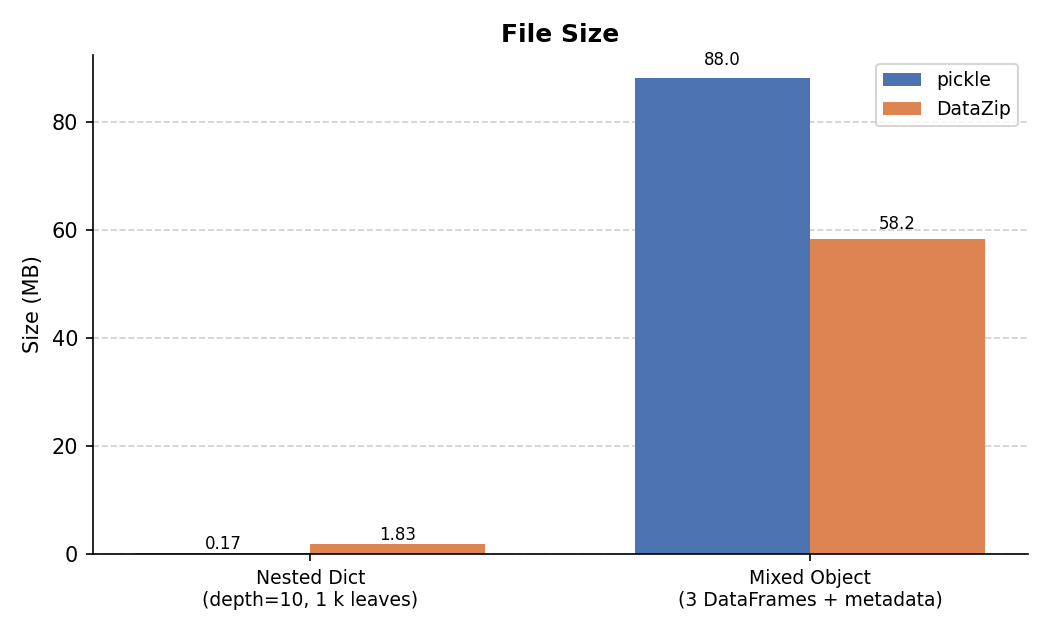
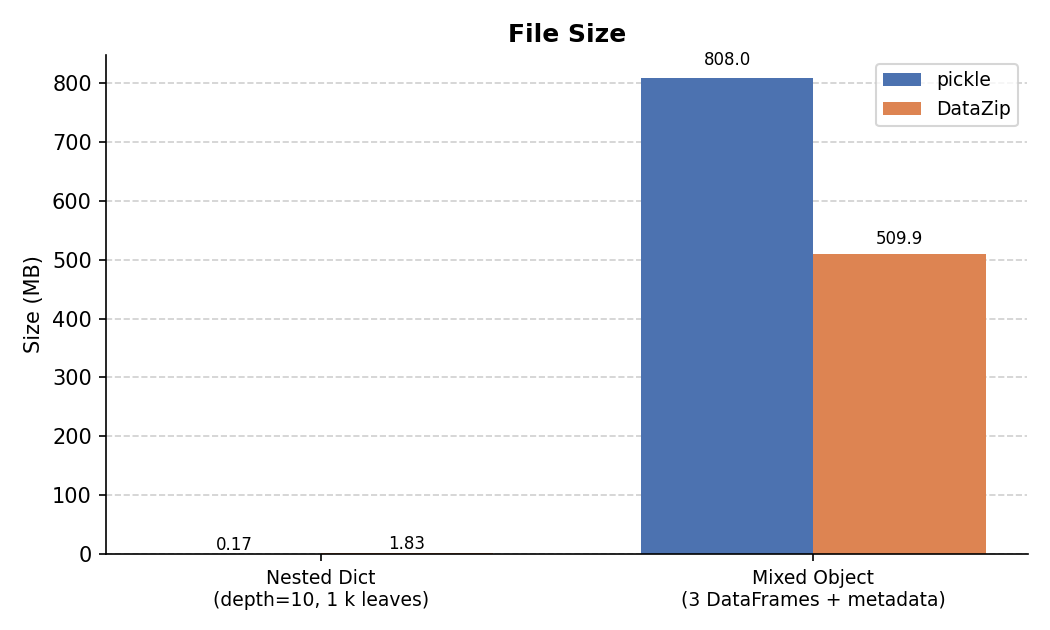
lazy access benchmark

diff --git a/docs/benchmarks.py b/docs/benchmarks.py
@@ -29,7 +29,7 @@ REPEATS = 7
 # ---------------------------------------------------------------------------
 
 
-def make_nested_dict(depth: int = 10, breadth: int = 2) -> dict:
+def make_nested_dict(depth: int, breadth: int) -> dict:
     """Return a recursively nested dict *depth* levels deep.
 
     With breadth=2 this creates 2**10 = 1,024 leaf nodes.
@@ -48,7 +48,7 @@ def make_mixed_object() -> dict:
     """Return a dict that mimics a realistic analysis result object.
 
     Contains:
-    - one large DataFrame  (500k rows × 20 cols)
+    - one large DataFrame  (5M rows × 20 cols)
     - two medium DataFrames (50k rows × 10 cols each)
     - a nested config dict
     - a list of category labels
@@ -63,7 +63,7 @@ def make_mixed_object() -> dict:
         return pd.DataFrame(d)
 
     return {
-        "results": _df(500_000, 20),
+        "results": _df(5_000_000, 20),
         "train_metrics": _df(50_000, 10),
         "val_metrics": _df(50_000, 10),
         "config": {
@@ -75,7 +75,7 @@ def make_mixed_object() -> dict:
             },
             "cv_folds": 5,
         },
-        "category_labels": [f"class_{i}" for i in range(200)],
+        "category_labels": [f"class_{i}" for i in range(20)],
         "description": (
             "Gradient boosting model trained on synthetic data. "
             "Metrics recorded at each epoch for train and validation splits."
@@ -108,7 +108,35 @@ def bench_pickle(obj, repeats: int = REPEATS) -> dict[str, float]:
     write_s = _time(lambda: pickle.dump(obj, io.BytesIO()), repeats)
     read_s = _time(lambda: pickle.loads(data), repeats)
 
-    return {"write_s": write_s, "read_s": read_s, "size_mb": size_mb}
+    return {"write_s": write_s * 1e3, "read_s": read_s * 1e3, "size_mb": size_mb}
+
+
+def bench_partial_read(obj: dict, key: str, repeats: int = REPEATS) -> dict[str, float]:
+    """Benchmark reading a single key: pickle must deserialize everything; DataZip does not.
+
+    With pickle, accessing any one key requires deserializing the entire blob —
+    including every large DataFrame stored in it.  With DataZip, only the
+    requested entry is deserialized; the binary files (Parquet, npy, …) for all
+    other entries are never read.
+    """  # noqa: E501, W505
+    buf = io.BytesIO()
+    pickle.dump(obj, buf)
+    pkl_data = buf.getvalue()
+
+    dz_buf = io.BytesIO()
+    with DataZip(dz_buf, "w") as z:
+        for k, v in obj.items():
+            z[k] = v
+    dz_data = dz_buf.getvalue()
+
+    pkl_s = _time(lambda: pickle.loads(pkl_data)[key], repeats)
+
+    def _dz_read():
+        with DataZip(io.BytesIO(dz_data), "r") as z:
+            _ = z[key]
+
+    dz_s = _time(_dz_read, repeats)
+    return {"pickle_s": pkl_s * 1e3, "datazip_s": dz_s * 1e3}
 
 
 def bench_datazip_dict(obj: dict, repeats: int = REPEATS) -> dict[str, float]:
@@ -125,19 +153,15 @@ def bench_datazip_dict(obj: dict, repeats: int = REPEATS) -> dict[str, float]:
     data = buf.getvalue()
 
     def _write():
-        with DataZip(io.BytesIO(), "w") as z:
-            for k, v in obj.items():
-                z[k] = v
+        DataZip.dump(obj, io.BytesIO())
 
     def _read():
-        with DataZip(io.BytesIO(data), "r") as z:
-            for k in z.keys():  # noqa: SIM118
-                _ = z[k]
+        _ = DataZip.load(io.BytesIO(data))
 
     write_s = _time(_write, repeats)
     read_s = _time(_read, repeats)
 
-    return {"write_s": write_s, "read_s": read_s, "size_mb": size_mb}
+    return {"write_s": write_s * 1e3, "read_s": read_s * 1e3, "size_mb": size_mb}
 
 
 # ---------------------------------------------------------------------------
@@ -192,13 +216,45 @@ def _bar_chart(
     ax.spines[["top", "right"]].set_visible(False)
 
 
+def make_partial_figure(result: dict[str, float], key: str) -> None:
+    """Save a two-bar chart for the single-item read benchmark."""
+    IMAGES_DIR.mkdir(parents=True, exist_ok=True)
+    fig, ax = plt.subplots(figsize=(5, 3.8))
+    labels = ["pickle\n(full deserialize)", "DataZip\n(lazy, 1 entry)"]
+    vals = [result["pickle_s"], result["datazip_s"]]
+    colors = [_PALETTE["pickle"], _PALETTE["DataZip"]]
+    bars = ax.bar(labels, vals, color=colors, width=0.45)
+    for bar in bars:
+        h = bar.get_height()
+        ax.text(
+            bar.get_x() + bar.get_width() / 2,
+            h * 1.02,
+            f"{h:.3f} ms",
+            ha="center",
+            va="bottom",
+            fontsize=9,
+        )
+    ax.set_ylabel("Time (ms)")
+    ax.set_title(
+        f"Single-item read (key='{key}')\npickle vs DataZip", fontweight="bold"
+    )
+    ax.yaxis.grid(True, linestyle="--", alpha=0.6)  # noqa: FBT003
+    ax.set_axisbelow(True)
+    ax.spines[["top", "right"]].set_visible(False)
+    fig.tight_layout()
+    path = IMAGES_DIR / "bench_partial_read.png"
+    fig.savefig(path, dpi=150)
+    plt.close(fig)
+    print(f"  Saved {path}")
+
+
 def make_figures(results: dict[str, dict[str, dict[str, float]]]) -> None:
     IMAGES_DIR.mkdir(parents=True, exist_ok=True)
 
     display_labels = list(results.keys())
     metrics = [
-        ("write_s", "Time (s)", "Write Time"),
-        ("read_s", "Time (s)", "Read Time"),
+        ("write_s", "Time (ms)", "Write Time"),
+        ("read_s", "Time (ms)", "Read Time"),
         ("size_mb", "Size (MB)", "File Size"),
     ]
     filenames = ["bench_write.png", "bench_read.png", "bench_size.png"]
@@ -221,8 +277,10 @@ def make_figures(results: dict[str, dict[str, dict[str, float]]]) -> None:
 
 
 def main() -> None:
-    print("\n── Nested Dict (depth=10, 1 k leaves) ──")
-    nested = make_nested_dict()
+    depth = 10
+    breadth = 2
+    print(f"\n── Nested Dict (depth={depth}, {breadth**10} leaves) ──")
+    nested = make_nested_dict(depth, breadth)
 
     print("  pickle  ...", end=" ", flush=True)
     nested_pkl = bench_pickle(nested)
@@ -259,6 +317,20 @@ def main() -> None:
         f"size={r['size_mb']:.2f} MB"
     )
 
+    TARGET_KEY = "config"  # noqa: N806
+    print(f"\n── Single-item read (key='{TARGET_KEY}' from mixed object) ──")
+    print(
+        f"  pickle must deserialize the entire blob (all DataFrames included).\n"
+        f"  DataZip only decodes the '{TARGET_KEY}' entry; other files are never read."
+    )
+    partial = bench_partial_read(mixed, TARGET_KEY)
+    speedup = partial["pickle_s"] / partial["datazip_s"]
+    print(
+        f"  pickle={partial['pickle_s']:.0f}ms  "
+        f"DataZip={partial['datazip_s'] * 1e3:.0f}us  "
+        f"speedup={speedup:.1f}×"  # noqa: RUF001
+    )
+
     results = {
         "Nested Dict\n(depth=10, 1 k leaves)": {
             "pickle": nested_pkl,
@@ -272,6 +344,7 @@ def main() -> None:
 
     print("\nGenerating figures ...")
     make_figures(results)
+    make_partial_figure(partial, TARGET_KEY)
 
     print("\n### Markdown results table\n")
     hdr = (
@@ -286,8 +359,8 @@ def main() -> None:
         p, d = r["pickle"], r["datazip"]
         print(
             f"| {name} "
-            f"| {p['write_s']:.3f} s | {d['write_s']:.3f} s "
-            f"| {p['read_s']:.3f} s | {d['read_s']:.3f} s "
+            f"| {p['write_s']:.1f} ms | {d['write_s']:.1f} ms "
+            f"| {p['read_s']:.1f} ms | {d['read_s']:.1f} ms "
             f"| {p['size_mb']:.2f} MB | {d['size_mb']:.2f} MB |"
         )
 

diff --git a/docs/performance.md b/docs/performance.md
@@ -76,27 +76,64 @@ This is where the trade-off becomes clear:
 
 ---
 
+## Partial / Lazy Read
+
+A key advantage of DataZip's zip-based format is that **entries are independent**.
+When you read a single key, only that entry is deserialized — the binary files
+(Parquet, NumPy, …) stored for every other key are never opened.
+
+`pickle` has no such capability: deserializing *any* part of a pickle blob
+requires parsing the entire stream from the beginning.
+
+The benchmark below reads one small key (`config`, a nested dict) from the
+mixed object that also contains a 5 M-row DataFrame and two 50 k-row
+DataFrames:
+
+```python
+# pickle — must deserialize all three DataFrames just to reach 'config'
+obj = pickle.loads(data)
+result = obj["config"]
+
+# DataZip — reads only the 'config' JSON entry; Parquet files are never touched
+with DataZip(io.BytesIO(data), "r") as z:
+    result = z["config"]
+```
+
+![Partial read comparison](images/bench_partial_read.png)
+
+DataZip is substantially faster here because the total work is proportional to
+the size of the requested entry, not the size of the whole archive.
+
+---
+
 ## Summary Table
 
 Measurements from a single representative run:
 
 | Benchmark | Write: pickle | Write: DataZip | Read: pickle | Read: DataZip | Size: pickle | Size: DataZip |
 |---|---|---|---|---|---|---|
-| Nested Dict (depth=10, 1 k leaves) | 0.000 s | 0.005 s | 0.001 s | 0.004 s | 0.17 MB | 1.83 MB |
-| Mixed Object (3 DataFrames + metadata) | 0.006 s | 0.152 s | 0.003 s | 0.021 s | 88.00 MB | 58.19 MB |
+| Nested Dict (depth=10, 1 k leaves) | 0.5 ms | 5.4 ms | 0.6 ms | 3.9 ms | 0.17 MB | 1.83 MB |
+| Mixed Object (3 DataFrames + metadata) | 70.0 ms | 969.3 ms | 52.4 ms | 159.8 ms | 808.00 MB | 509.86 MB |
+
+**Single-item read** — reading only `config` from the mixed object:
+
+| | pickle (full deserialize) | DataZip (lazy, 1 entry) |
+|---|---------------------------|-------------------------|
+| Mixed Object → `config` key | 54 ms                     | 26 us |
 
 ---
 
 ## When to use DataZip vs pickle
 
-| | DataZip | pickle |
-|---|---|---|
-| Human-inspectable archive | ✓ | ✗ |
-| Smaller file for DataFrames | ✓ | ✗ |
-| Parquet interoperability | ✓ | ✗ |
-| Faster for nested dicts | ✗ | ✓ |
+|                                        | DataZip | pickle |
+|----------------------------------------|---|---|
+| Human-inspectable archive              | ✓ | ✗ |
+| Smaller file for DataFrames            | ✓ | ✗ |
+| Parquet interoperability               | ✓ | ✗ |
+| Faster for nested dicts                | ✗ | ✓ |
+| Faster for partial reads               | ✓ | ✗ |
 | Safer (no arbitrary code exec on load) | ✓ | ✗ |
-| Reproducible across Python versions | ✓ (mostly) | ✗ |
+| Reproducible across Python versions    | ✓ (mostly) | ✗ |
 
 !!! tip "Reducing DataZip file size for nested structures"
     Pass `compression=ZIP_DEFLATED` to enable zip compression:

diff --git a/docs/installation.md b/docs/installation.md
@@ -2,7 +2,7 @@
 
 ## Requirements
 
-- Python ≥ 3.13
+- Python ≥ 3.12
 
 ## Basic Installation
 
@@ -22,25 +22,18 @@ These are installed automatically:
 
 | Package | Purpose |
 |---|---|
-| `pandas` | DataFrame and Series serialization |
-| `polars` | Polars DataFrame/Series serialization |
-| `pyarrow` | Parquet file format for tabular data |
-| `numpy` | Array serialization |
 | `orjson` | Fast JSON encoding/decoding |
-| `pyyaml` | YAML support |
-| `platformdirs` | Platform-specific directory paths |
 
 ## Optional Dependencies
 
 Some types require additional packages:
 
-```bash
-# Plotly figure support
-pip install plotly
+| Package       | Purpose                                   |
+|---------------|-------------------------------------------|
+| `pandas` and `pyarrow` | Pandas DataFrame and Series serialization |
+| `polars`      | Polars DataFrame/Series serialization     |
+| `numpy`       | Array serialization                       |
 
-# SQLAlchemy engine support
-pip install sqlalchemy
-```
 
 ## Development Installation
 

diff --git a/README.md b/README.md
@@ -9,13 +9,14 @@
 
 
 
-**DataZip** is a Python library that extends [`zipfile.ZipFile`](https://docs.python.org/3/library/zipfile.html#zipfile.ZipFile) to provide seamless serialization and deserialization of complex Python objects — a more flexible and readable alternative to pickle for data science workflows.
+**DataZip** is a Python library that extends [`zipfile.ZipFile`](https://docs.python.org/3/library/zipfile.html#zipfile.ZipFile) to provide seamless serialization and deserialization of complex Python objects — a more portable and readable alternative to pickle for data science workflows.
 
 ## Why DataZip?
 
 - **Human-inspectable archives**: DataZip files are standard `.zip` files. You can open them with any archive tool and inspect the contents.
 - **Broad type support**: Works out of the box with pandas DataFrames/Series, NumPy arrays, Polars DataFrames, datetimes, paths, sets, frozensets, complex numbers, and custom classes.
 - **Efficient storage**: Tabular data is stored as Parquet; arrays as `.npy`. JSON is used for metadata and simple types.
+- **Lazy loading**: Objects and data are only deserialized when they are accessed, allowing efficient loading of objects within huge files. Nested access avoids deserialzing unnecessary enclosing objects.
 - **No pickle by default**: Most types are serialized without pickle, making files safer and more portable.
 - **Custom class integration**: Any class that implements `__getstate__`/`__setstate__` (the standard pickle protocol) works automatically. The `IOMixin` makes it even simpler.
 
@@ -56,4 +57,4 @@ with DataZip(buffer, "r") as z:
 pip install datazip
 ```
 
-See the [Installation](installation.md) page for full details including optional dependencies.
+See the [Installation](https://colectric-dev.github.io/datazip/installation/) page for full details including optional dependencies.

diff --git a/docs/index.md b/docs/index.md
@@ -1,12 +1,13 @@
 # DataZip
 
-**DataZip** is a Python library that extends [`zipfile.ZipFile`](https://docs.python.org/3/library/zipfile.html#zipfile.ZipFile) to provide seamless serialization and deserialization of complex Python objects — a more flexible and readable alternative to pickle for data science workflows.
+**DataZip** is a Python library that extends [`zipfile.ZipFile`](https://docs.python.org/3/library/zipfile.html#zipfile.ZipFile) to provide seamless serialization and deserialization of complex Python objects — a more portable and readable alternative to pickle for data science workflows.
 
 ## Why DataZip?
 
 - **Human-inspectable archives**: DataZip files are standard `.zip` files. You can open them with any archive tool and inspect the contents.
 - **Broad type support**: Works out of the box with pandas DataFrames/Series, NumPy arrays, Polars DataFrames, datetimes, paths, sets, frozensets, complex numbers, and custom classes.
 - **Efficient storage**: Tabular data is stored as Parquet; arrays as `.npy`. JSON is used for metadata and simple types.
+- **Lazy loading**: Objects and data are only deserialized when they are accessed, allowing efficient loading of objects within huge files. Nested access avoids deserialzing unnecessary enclosing objects.
 - **No pickle by default**: Most types are serialized without pickle, making files safer and more portable.
 - **Custom class integration**: Any class that implements `__getstate__`/`__setstate__` (the standard pickle protocol) works automatically. The `IOMixin` makes it even simpler.
 